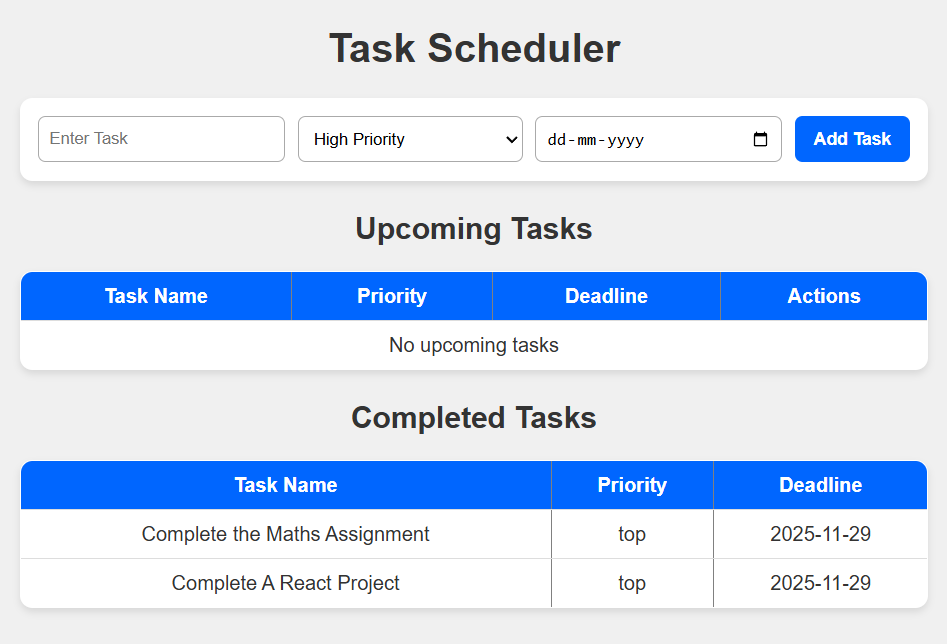
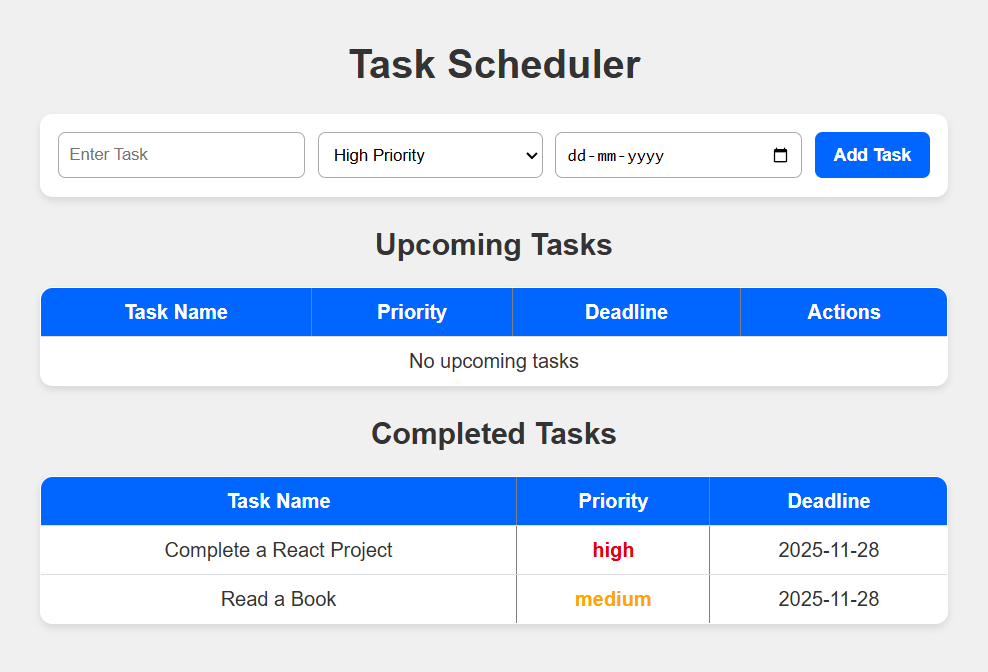
Updated UI + improvements

diff --git a/src/TaskForm.jsx b/src/TaskForm.jsx
@@ -3,7 +3,7 @@ import { v4 as uuidv4 } from 'uuid';
 
 export default function TaskForm({addTask}) {
   let [newTask, setNewTask] = useState("");
-  let [priority, setPriority] = useState("top");
+  let [priority, setPriority] = useState("high");
   let [deadline, setDeadline] = useState("");
 
   const handleSubmit = () => {
@@ -31,7 +31,7 @@ export default function TaskForm({addTask}) {
     addTask(taskObj);
 
     setNewTask("");
-    setPriority("top");
+    setPriority("high");
     setDeadline("");
   };
 

diff --git a/README.md b/README.md
@@ -30,8 +30,8 @@ and marking tasks as completed once done.
 
 ## 📸 Screenshots (Add after UI polish)
 
-### 🏠 Task Form + Upcoming Tasks UI
-<img src="src\assets\upcomingtasks.png" alt="Home UI" width="600"/>
+### 🏠 Task Form 
+<img src="src\assets\Home.png" alt="Home UI" width="600"/>
 
 ### ✔ Completed Tasks UI
 <img src="src\assets\completedtasks.png" alt="Home UI" width="600"/>
